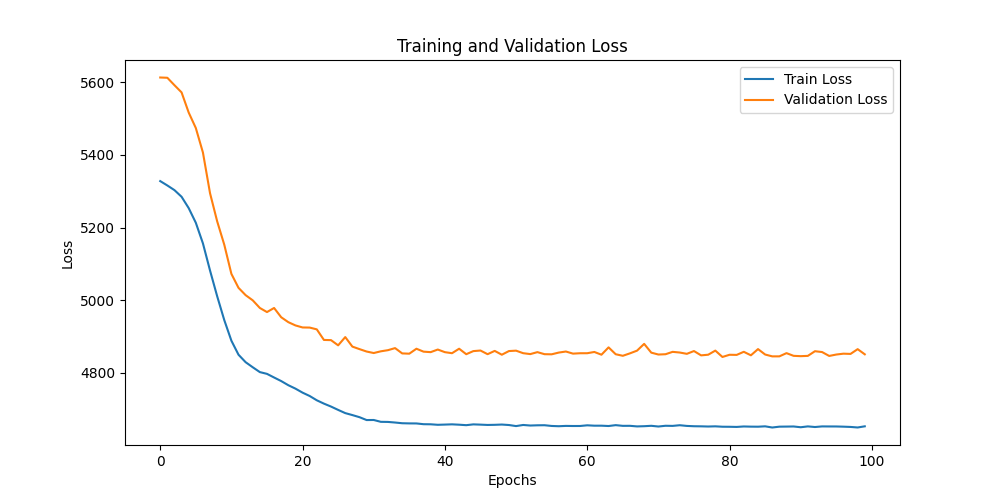
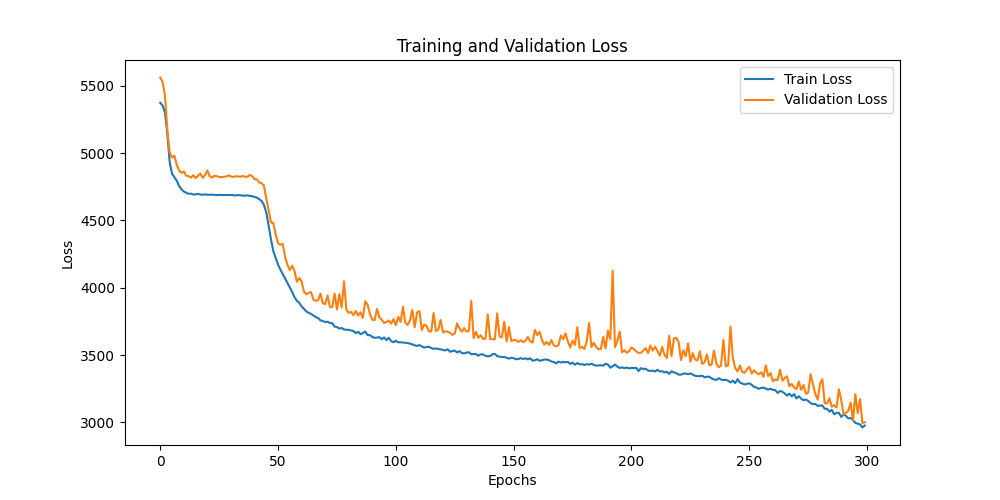
exercise3_masepochs

diff --git a/src/exercise_03/train.py b/src/exercise_03/train.py
@@ -45,12 +45,12 @@ def train_model(output_folder: Path, device: torch.device):
     # Define the model, loss function, and optimizer
     input_dim = 1
     output_dim = 1
-    model = MultiPerceptron(input_dim, [64, 32, 16], output_dim).to(device)
+    model = MultiPerceptron(input_dim, [256, 128, 64], output_dim).to(device)
     criterion = nn.MSELoss()
     optimizer = optim.AdamW(model.parameters(), lr=0.0001)
 
     # Training loop with validation and saving best weights
-    num_epochs = 100
+    num_epochs = 1000
     best_val_loss = float("inf")
     best_model_path = output_folder / "best_model.pth"
 

diff --git a/src/exercise_03/evaluate.py b/src/exercise_03/evaluate.py
@@ -114,7 +114,7 @@ if __name__ == "__main__":
     test_loader = DataLoader(test_dataset, batch_size=10, shuffle=False)
 
     # Load the best model weights
-    model = MultiPerceptron(input_dim=1, hidden_dims=[64, 32, 16], output_dim=1)
+    model = MultiPerceptron(input_dim=1, hidden_dims=[256, 128, 64], output_dim=1)
     model.load_state_dict(torch.load(output_folder / "best_model.pth"))
 
     metrics = {}

diff --git a/src/exercise_03/model.py b/src/exercise_03/model.py
@@ -26,7 +26,7 @@ class MultiPerceptron(nn.Module):
 
 
 if __name__ == "__main__":
-    model = MultiPerceptron(1, [64, 32, 16], 1)
+    model = MultiPerceptron(1, [256, 128, 64], 1)
     print(model)
     x = torch.tensor([[1.0]])
     print(model(x))
